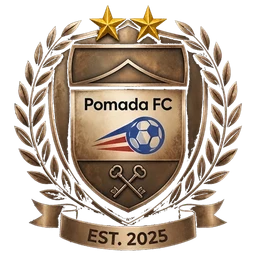
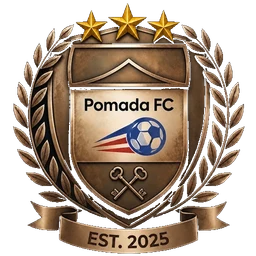
feat: escudos de Isótopos Portal 1, Cúcuta 10 F.C. y Pomada
La organización envió los logos de los tres clubes en el documento
«Actualización página web». Isótopos Portal 1 y Cúcuta 10 F.C. se mostraban
con una inicial y ahora llevan su escudo. El de Pomada reemplaza al anterior.

Los fondos blanco (Cúcuta e Isótopos) y negro (Pomada) se quitaron para que
los escudos queden transparentes como los demás. El nombre del club no cambió:
el documento lo escribe «Pomada FC» y el sitio «Pomada Alfa»; eso lo confirma
la organización.

diff --git a/src/lib/torneo-data.ts b/src/lib/torneo-data.ts
@@ -63,15 +63,15 @@ const CLUBES = [
   { slug: 'managers-fc', nombre: 'Managers FC', corto: 'MGR', color: '#D4A437', escudo: true },
   { slug: 'useche-fc', nombre: 'Useches', corto: 'USE', color: '#5B3DA8', escudo: true },
   // Nuevos en la 5ª edición. Nombre tal como lo escribe la organización;
-  // escudo y color definitivos, pendientes.
+  // el color es provisional, el escudo ya viene del documento de la organización.
   {
     slug: 'isotopos-portal-1',
     nombre: 'Isótopos Portal 1',
     corto: 'ISO',
     color: '#65A30D',
-    escudo: false,
+    escudo: true,
   },
-  { slug: 'cucuta-10-fc', nombre: 'Cúcuta 10 F.C.', corto: 'CUC', color: '#9F1239', escudo: false },
+  { slug: 'cucuta-10-fc', nombre: 'Cúcuta 10 F.C.', corto: 'CUC', color: '#9F1239', escudo: true },
 ] as const;
 
 export type Grupo = 'A' | 'B';
